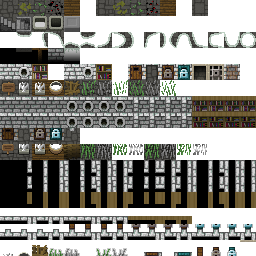
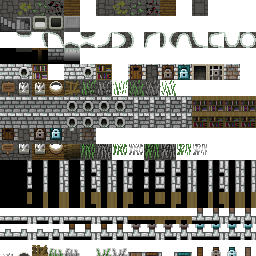
v0.7: secret doors are correctly displayed when using cheats

diff --git a/core/src/main/java/com/alphadraxonis/sandboxpixeldungeon/tiles/DungeonTileSheet.java b/core/src/main/java/com/alphadraxonis/sandboxpixeldungeon/tiles/DungeonTileSheet.java
@@ -262,7 +262,7 @@ public class DungeonTileSheet {
 	public static final int RAISED_DOOR_OPEN        = RAISED_DOORS+1;
 	public static final int RAISED_DOOR_LOCKED      = RAISED_DOORS+2;
 	public static final int RAISED_DOOR_CRYSTAL     = RAISED_DOORS+3;
-	public static final int RAISED_DOOR_SECRET		= RAISED_DOOR_CRYSTAL;
+	public static final int RAISED_DOOR_SECRET		= RAISED_DOORS+5;
 	//floor tile that appears on a top/bottom doorway
 	public static final int RAISED_DOOR_SIDEWAYS    = RAISED_DOORS+4;
 
@@ -339,11 +339,11 @@ public class DungeonTileSheet {
 	public static final int WALL_OVERHANG                   = WALLS_OVERHANG+0;
 	public static final int WALL_OVERHANG_DECO              = WALLS_OVERHANG+4;
 	public static final int WALL_OVERHANG_WOODEN            = WALLS_OVERHANG+8;
+	public static final int DOOR_SIDEWAYS_OVERHANG_SECRET   = WALLS_OVERHANG+12;
 	public static final int DOOR_SIDEWAYS_OVERHANG          = WALLS_OVERHANG+16;
 	public static final int DOOR_SIDEWAYS_OVERHANG_CLOSED   = WALLS_OVERHANG+20;
 	public static final int DOOR_SIDEWAYS_OVERHANG_LOCKED   = WALLS_OVERHANG+24;
 	public static final int DOOR_SIDEWAYS_OVERHANG_CRYSTAL  = WALLS_OVERHANG+28;
-	public static final int DOOR_SIDEWAYS_OVERHANG_SECRET   = WALLS_OVERHANG+28;
 
 
 	public static int stitchWallOverhangTile(int tile, int rightBelow, int below, int leftBelow){
@@ -380,8 +380,8 @@ public class DungeonTileSheet {
 	public static final int DOOR_SIDEWAYS               = OTHER_OVERHANG+12;
 	public static final int DOOR_SIDEWAYS_LOCKED        = OTHER_OVERHANG+13;
 	public static final int DOOR_SIDEWAYS_CRYSTAL       = OTHER_OVERHANG+14;
-	public static final int DOOR_SIDEWAYS_SECRET        = OTHER_OVERHANG+14;
-	public static final int DOOR_OVERHANG_SECRET       = OTHER_OVERHANG+11;
+	public static final int DOOR_SIDEWAYS_SECRET        = OTHER_OVERHANG+15;
+	public static final int DOOR_OVERHANG_SECRET       = OTHER_OVERHANG+8;
 	//exit visuals are rendered flat atm, so they actually underhang
 	public static final int EXIT_UNDERHANG              =  OTHER_OVERHANG+15;
 
